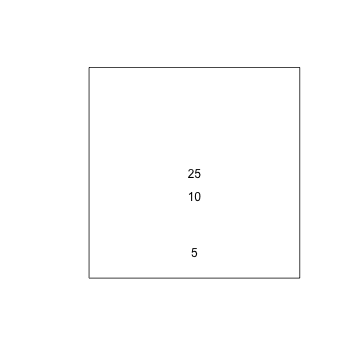
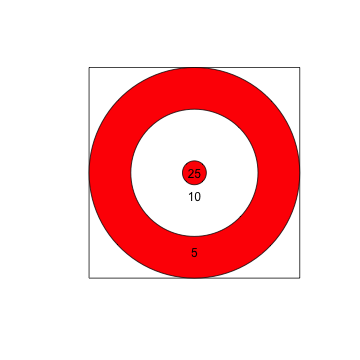
Adding markdown ffiles

Changed region(s): [[0.2444, 0.1833, 0.8556, 0.7944], [0.4889, 0.4278, 0.5806, 0.5194]]

diff --git a/Week4_StatisticalInference/MeetingSlidesD2.md b/Week4_StatisticalInference/MeetingSlidesD2.md
@@ -12,23 +12,6 @@ output: ioslides_presentation
 
 Here's our dart board-- the numbers are the number of points you win for a hit in each area.
 
-
-```
-## Error in library(plotrix): there is no package called 'plotrix'
-```
-
-```
-## Error in eval(expr, envir, enclos): could not find function "draw.circle"
-```
-
-```
-## Error in eval(expr, envir, enclos): could not find function "draw.circle"
-```
-
-```
-## Error in eval(expr, envir, enclos): could not find function "draw.circle"
-```
-
 <img src="figure/unnamed-chunk-1-1.png" title="plot of chunk unnamed-chunk-1" alt="plot of chunk unnamed-chunk-1" style="display: block; margin: auto;" />
 
 ## Null hypothesis
@@ -58,13 +41,13 @@ head(cbind(throw.x, throw.y))
 ```
 
 ```
-##        throw.x    throw.y
-## [1,] -4.084359  1.3058913
-## [2,] -4.431558 -6.1498348
-## [3,]  5.108545  5.1780487
-## [4,]  6.572441 -0.4536564
-## [5,] -3.767828  0.4380682
-## [6,]  2.720424 -4.0623754
+##         throw.x    throw.y
+## [1,] -0.3417724  4.3112002
+## [2,]  5.3568449  0.3986758
+## [3,] -0.1968829 -4.0292692
+## [4,] -3.7015105  1.3955238
+## [5,]  0.9807719 -2.0511807
+## [6,] -3.3563166 -3.6548960
 ```
 
 ## Graph of results under the null
@@ -77,29 +60,8 @@ plot(c(-1 * (6 + 5/8), (6 + 5/8)), c(-1 * (6 + 5/8), (6 + 5/8)),
 rect( -1 * (6 + 5/8), -1 * (6 + 5/8),
       (6 + 5/8), (6 + 5/8)) 
 draw.circle( 0, 0, (6 + 5/8), col = "red")
-```
-
-```
-## Error in eval(expr, envir, enclos): could not find function "draw.circle"
-```
-
-```r
 draw.circle( 0, 0, 4, col = "white")
-```
-
-```
-## Error in eval(expr, envir, enclos): could not find function "draw.circle"
-```
-
-```r
 draw.circle( 0, 0, (3 / 4), col = "red")
-```
-
-```
-## Error in eval(expr, envir, enclos): could not find function "draw.circle"
-```
-
-```r
 points(throw.x, throw.y, col = "black", pch = 19)
 ```
 
@@ -127,7 +89,7 @@ head(throw.dist)
 ```
 
 ```
-## [1] 4.288046 7.580183 7.273886 6.588079 3.793208 4.889131
+## [1] 4.324726 5.371660 4.034077 3.955840 2.273600 4.962169
 ```
 
 ```r
@@ -139,7 +101,7 @@ head(throw.score)
 ```
 
 ```
-## [1] 5    Null Null 5    10   5   
+## [1] 5  5  5  10 10 5 
 ## Levels: 25 10 5 Null
 ```
 
@@ -155,24 +117,17 @@ table(throw.score)
 ```
 ## throw.score
 ##   25   10    5 Null 
-##    0    1    4    5
+##    0    4    6    0
 ```
 
 ```r
 ex <- as.numeric(as.character(throw.score))
-```
-
-```
-## Warning: NAs introduced by coercion
-```
-
-```r
 ex <- ex[!is.na(ex)]
 mean(ex)
 ```
 
 ```
-## [1] 6
+## [1] 7
 ```
 
 ## What to expect under the null
@@ -293,10 +248,10 @@ dist.throws[1:3,1:5]
 ```
 
 ```
-##          [,1]     [,2]     [,3]     [,4]      [,5]
-## [1,] 4.790189 2.522072 2.118531 4.325606 0.6329936
-## [2,] 2.037365 5.607447 2.937251 3.507962 5.6932526
-## [3,] 4.004661 7.394938 2.710226 6.420245 6.2221134
+##          [,1]     [,2]     [,3]     [,4]     [,5]
+## [1,] 5.235099 4.205553 5.258347 4.730786 5.561223
+## [2,] 7.651559 6.259084 4.711931 1.372088 5.159890
+## [3,] 1.477280 4.269533 3.117517 3.075932 2.679381
 ```
 
 ```r
@@ -304,10 +259,10 @@ score.throws[1:3,1:5]
 ```
 
 ```
-##      [,1] [,2]   [,3] [,4] [,5]
-## [1,] "5"  "10"   "10" "5"  "25"
-## [2,] "10" "5"    "10" "10" "5" 
-## [3,] "5"  "Null" "10" "5"  "5"
+##      [,1]   [,2] [,3] [,4] [,5]
+## [1,] "5"    "5"  "5"  "5"  "5" 
+## [2,] "Null" "5"  "5"  "10" "5" 
+## [3,] "10"   "5"  "10" "10" "10"
 ```
 
 ## Simulating $E[\bar{X}]$ and $Var(\bar{X})$
@@ -320,6 +275,114 @@ mean.scores <- apply(score.throws, MARGIN = 1,
                                      as.character(x)))
                              return(out)
                      })
+```
+
+```
+## Warning in mean(as.numeric(as.character(x))): NAs introduced by coercion
+```
+
+```
+## Warning in mean(as.numeric(as.character(x))): NAs introduced by coercion
+```
+
+```
+## Warning in mean(as.numeric(as.character(x))): NAs introduced by coercion
+```
+
+```
+## Warning in mean(as.numeric(as.character(x))): NAs introduced by coercion
+```
+
+```
+## Warning in mean(as.numeric(as.character(x))): NAs introduced by coercion
+```
+
+```
+## Warning in mean(as.numeric(as.character(x))): NAs introduced by coercion
+```
+
+```
+## Warning in mean(as.numeric(as.character(x))): NAs introduced by coercion
+```
+
+```
+## Warning in mean(as.numeric(as.character(x))): NAs introduced by coercion
+```
+
+```
+## Warning in mean(as.numeric(as.character(x))): NAs introduced by coercion
+```
+
+```
+## Warning in mean(as.numeric(as.character(x))): NAs introduced by coercion
+```
+
+```
+## Warning in mean(as.numeric(as.character(x))): NAs introduced by coercion
+```
+
+```
+## Warning in mean(as.numeric(as.character(x))): NAs introduced by coercion
+```
+
+```
+## Warning in mean(as.numeric(as.character(x))): NAs introduced by coercion
+```
+
+```
+## Warning in mean(as.numeric(as.character(x))): NAs introduced by coercion
+```
+
+```
+## Warning in mean(as.numeric(as.character(x))): NAs introduced by coercion
+```
+
+```
+## Warning in mean(as.numeric(as.character(x))): NAs introduced by coercion
+```
+
+```
+## Warning in mean(as.numeric(as.character(x))): NAs introduced by coercion
+```
+
+```
+## Warning in mean(as.numeric(as.character(x))): NAs introduced by coercion
+```
+
+```
+## Warning in mean(as.numeric(as.character(x))): NAs introduced by coercion
+```
+
+```
+## Warning in mean(as.numeric(as.character(x))): NAs introduced by coercion
+```
+
+```
+## Warning in mean(as.numeric(as.character(x))): NAs introduced by coercion
+```
+
+```
+## Warning in mean(as.numeric(as.character(x))): NAs introduced by coercion
+```
+
+```
+## Warning in mean(as.numeric(as.character(x))): NAs introduced by coercion
+```
+
+```
+## Warning in mean(as.numeric(as.character(x))): NAs introduced by coercion
+```
+
+```
+## Warning in mean(as.numeric(as.character(x))): NAs introduced by coercion
+```
+
+```
+## Warning in mean(as.numeric(as.character(x))): NAs introduced by coercion
+```
+
+```
+## Warning in mean(as.numeric(as.character(x))): NAs introduced by coercion
 ```
 
 ```
@@ -36785,13 +36848,7 @@ head(mean.scores)
 ## Error in quantile.default(mean.scores, probs = c(0.0275, 0.975)): missing values and NaN's not allowed if 'na.rm' is FALSE
 ```
 
-```
-## Error in get(x, envir = this, inherits = inh)(this, ...): object 'xbar.perc' not found
-```
-
-```
-## Error in print(q1): object 'q1' not found
-```
+<img src="figure/unnamed-chunk-10-1.png" title="plot of chunk unnamed-chunk-10" alt="plot of chunk unnamed-chunk-10" style="display: block; margin: auto;" />
 
 ## Simulating $E[\bar{X}]$ and $Var(\bar{X})$
 
@@ -36825,11 +36882,4 @@ var(mean.scores) ## Theoretical: 2.27
 
 ## Testing against the null
 
-
-```
-## Error in eval(expr, envir, enclos): object 'q1' not found
-```
-
-```
-## Error in arrangeGrob(...): object 'q1' not found
-```
+<img src="figure/unnamed-chunk-12-1.png" title="plot of chunk unnamed-chunk-12" alt="plot of chunk unnamed-chunk-12" style="display: block; margin: auto;" />
